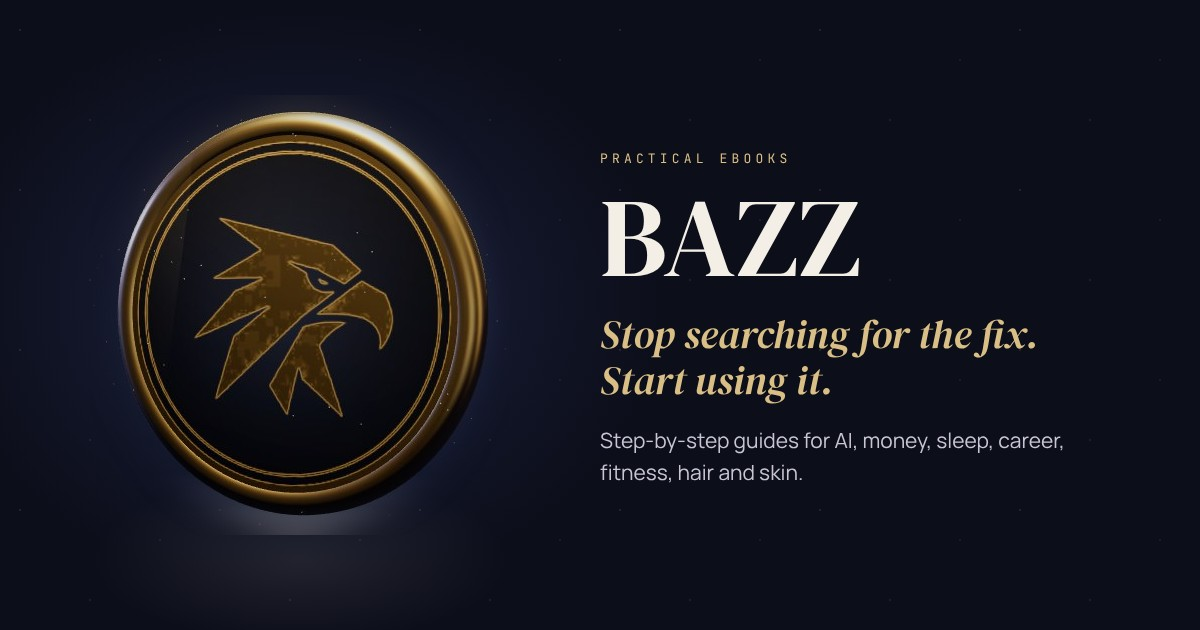
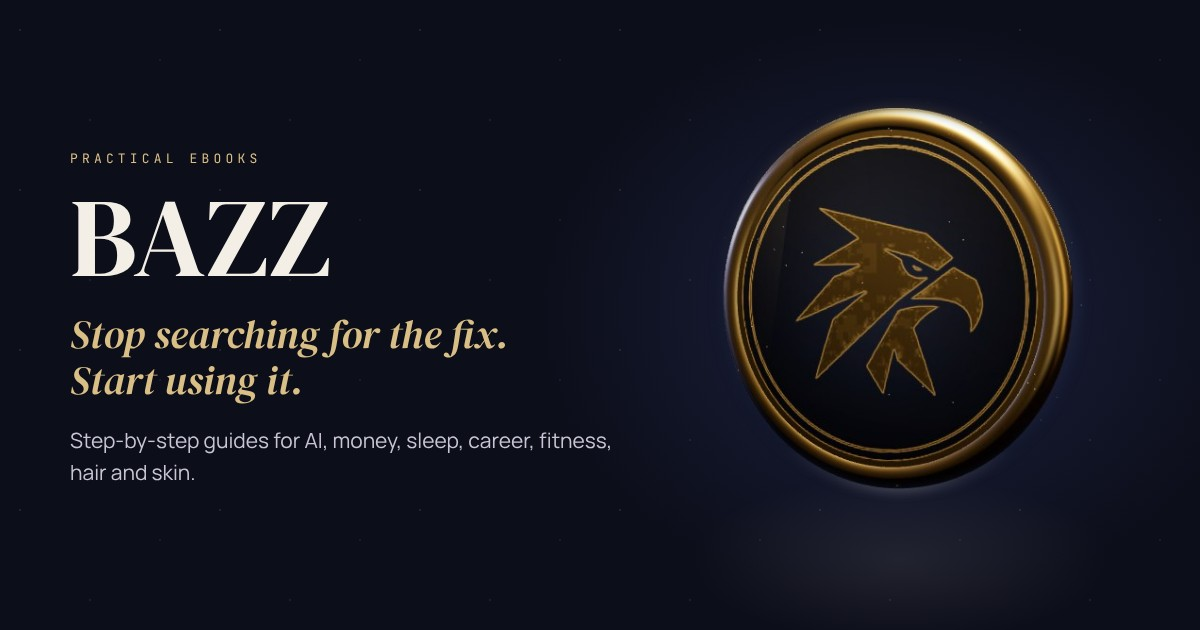
Share image: coin on the right, no visible box around it
Claude-Session: https://claude.ai/code/session_01VL8FjZzvsV5dXEyXNxeYy8

Changed region(s): [[0.0617, 0.1508, 0.925, 0.8746], [0.2775, 0.6333, 0.3083, 0.6635]]

diff --git a/index.html b/index.html
@@ -15,12 +15,12 @@
 <meta property="og:url" content="https://bazz-coffee.bazzcoffee336.workers.dev/">
 <meta property="og:title" content="BAZZ | Stop searching for the fix. Start using it.">
 <meta property="og:description" content="7 step-by-step ebooks that fix everyday problems: money, sleep, career, AI, fitness, hair and skin. One chapter a day, one fix at a time.">
-<meta property="og:image" content="https://bazz-coffee.bazzcoffee336.workers.dev/assets/og-bazz.jpg?v=4">
+<meta property="og:image" content="https://bazz-coffee.bazzcoffee336.workers.dev/assets/og-bazz.jpg?v=5">
 <meta property="og:image:width" content="1200"><meta property="og:image:height" content="630">
 <meta property="og:image:alt" content="BAZZ: books that fix real-life problems">
 <meta name="twitter:card" content="summary_large_image">
 <meta name="twitter:title" content="BAZZ | Stop searching for the fix. Start using it.">
-<meta name="twitter:image" content="https://bazz-coffee.bazzcoffee336.workers.dev/assets/og-bazz.jpg?v=4">
+<meta name="twitter:image" content="https://bazz-coffee.bazzcoffee336.workers.dev/assets/og-bazz.jpg?v=5">
 <link rel="icon" type="image/png" sizes="32x32" href="assets/medal-32.png?v=3"><link rel="icon" type="image/png" sizes="64x64" href="assets/medal-64.png?v=3"><link rel="apple-touch-icon" href="assets/medal-180.png?v=3">
 <link rel="preload" href="assets/fonts/Manrope-normal-3.woff2" as="font" type="font/woff2" crossorigin><link rel="preload" href="assets/fonts/DMSerifDisplay-normal-1.woff2" as="font" type="font/woff2" crossorigin>
 <link rel="modulepreload" href="assets/three.module.min.js">
